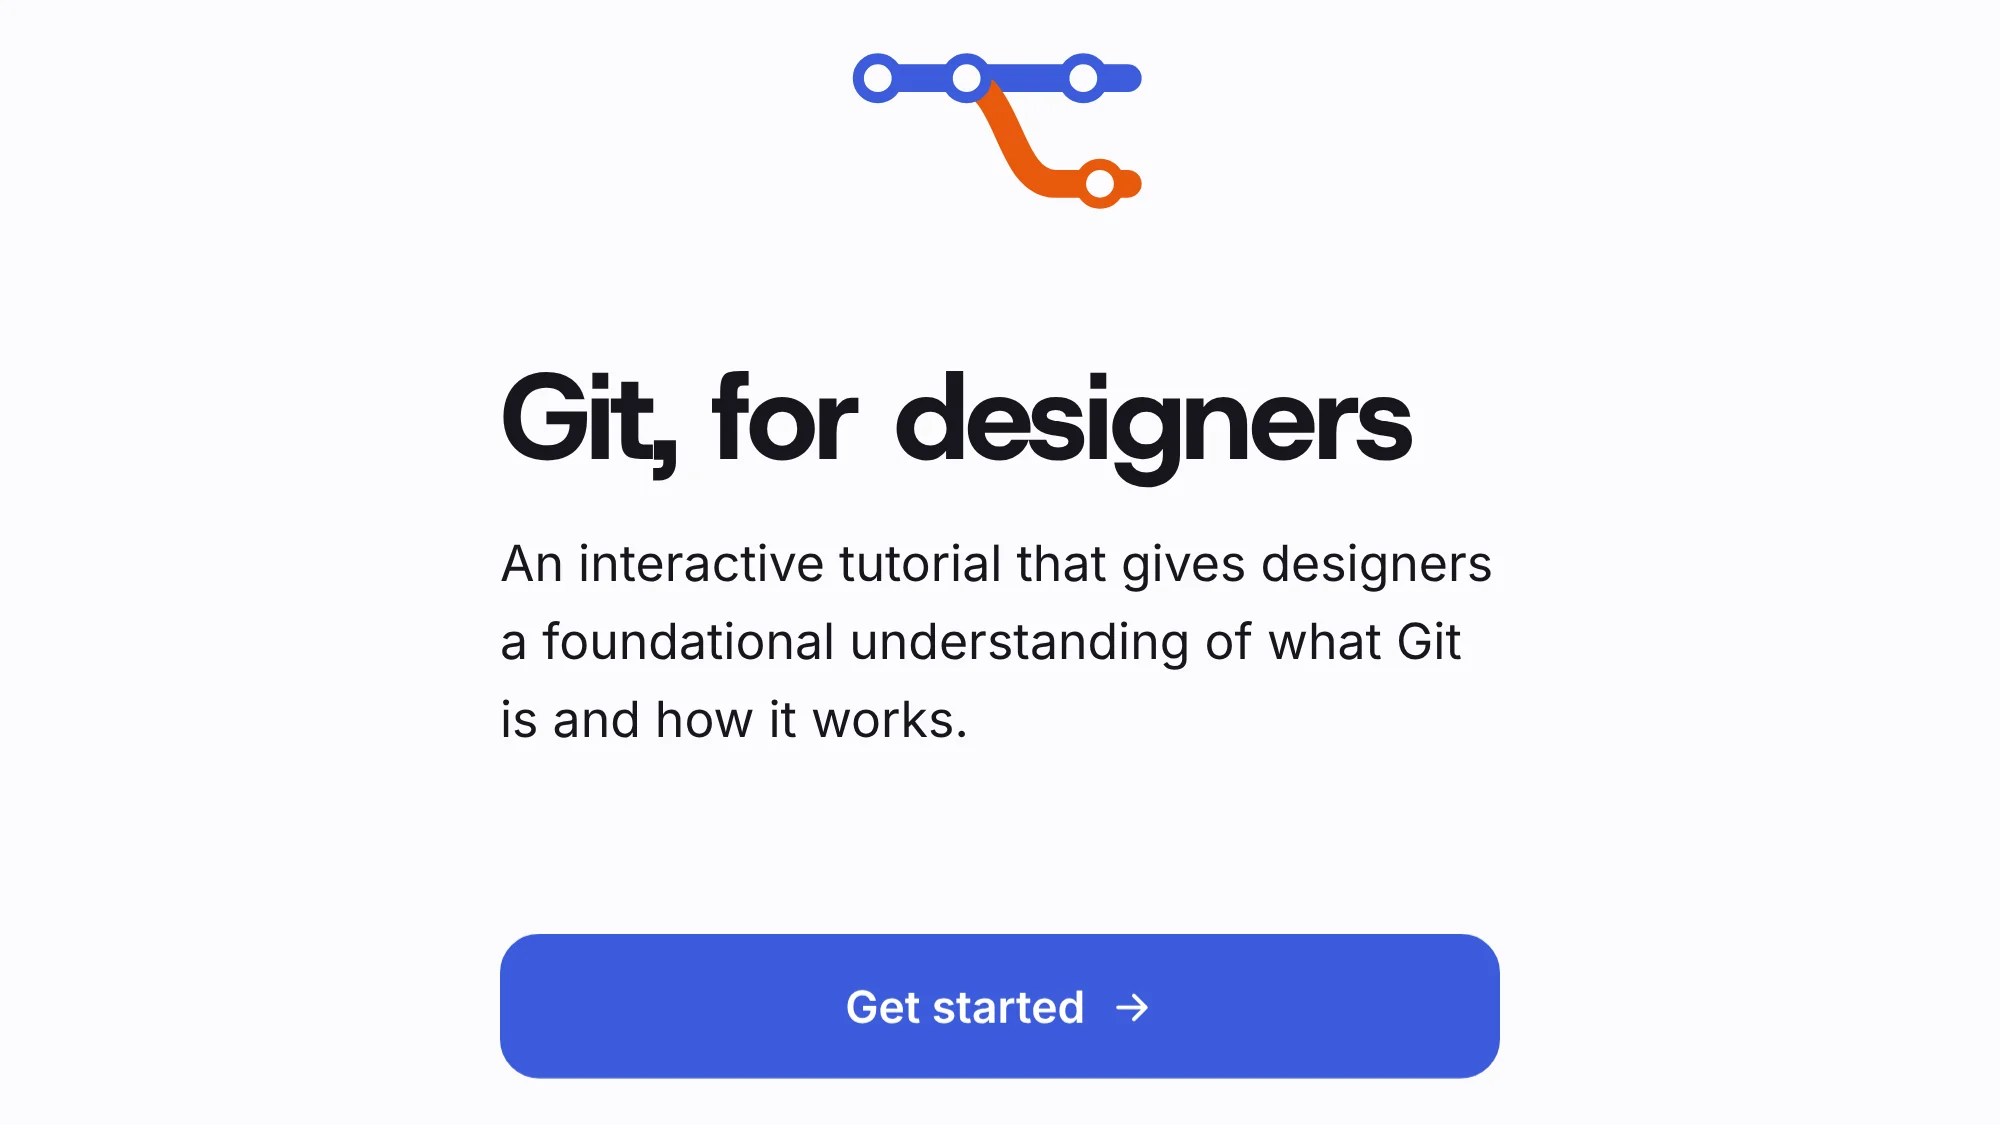
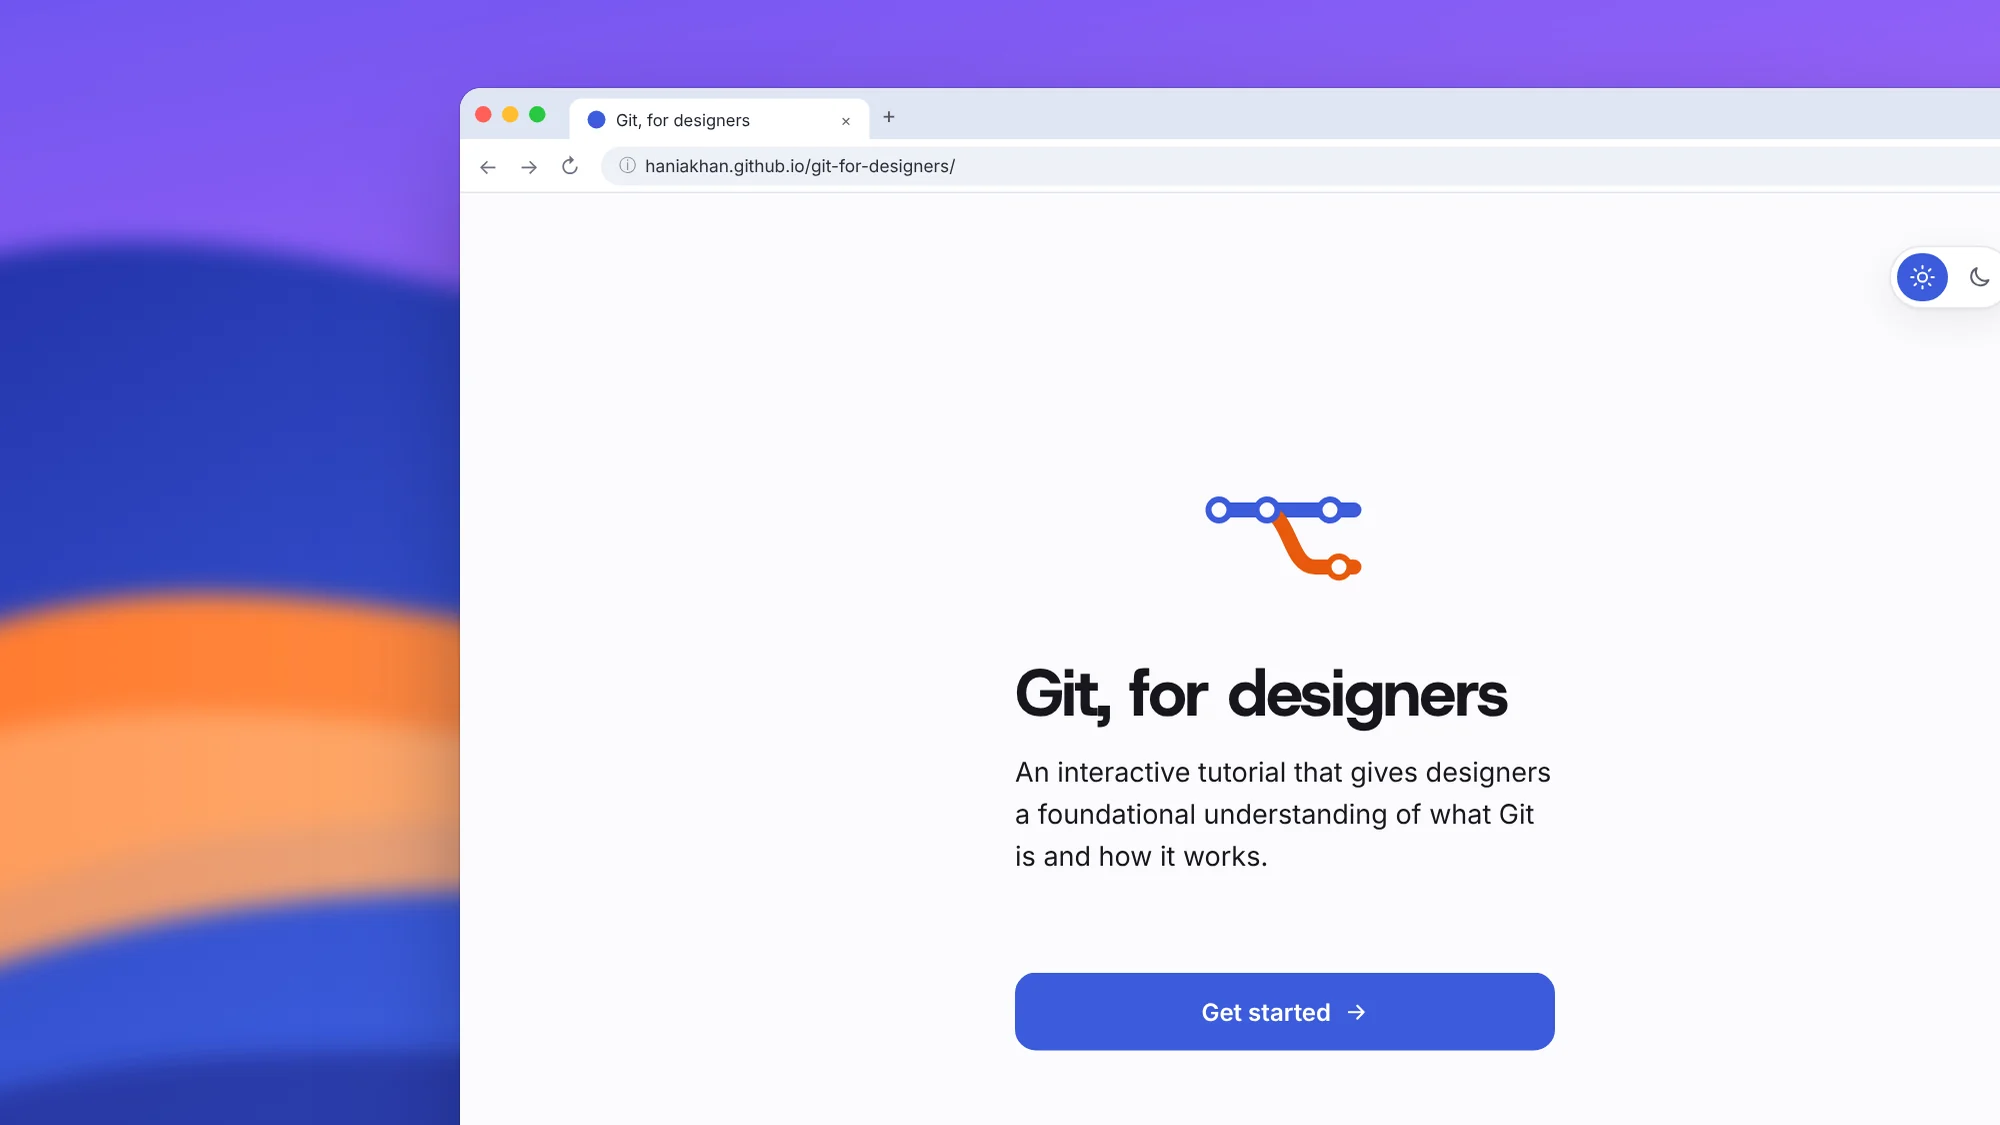
Redo the Git, for designers thumbnail as a browser window on a colourful background
Matches the other tool cards, and leaves the bottom-left corner clear for the name label.

Claude-Session: https://claude.ai/code/session_019JKNJsbBcrXpT4dioKPkZC

diff --git a/index.html b/index.html
@@ -187,7 +187,7 @@
         <figure class="tool" role="listitem" data-reveal>
           <!-- No promo: opens the live tutorial on GitHub Pages in a new tab -->
           <a class="tool__open" href="https://haniakhan.github.io/git-for-designers/" target="_blank" rel="noopener" data-tool-link="git-for-designers" aria-label="Git, for designers, open the tutorial in a new tab">
-            <img class="tool__shot" src="assets/tools/git-for-designers@1200.webp" srcset="assets/tools/git-for-designers@1200.webp 1200w, assets/tools/git-for-designers.webp 2000w" sizes="(max-width: 640px) 60vw, 320px" width="2000" height="1125" loading="lazy" decoding="async" alt="The intro screen of Git, for designers: a branching Git graph above the title and the line “An interactive tutorial that gives designers a foundational understanding of what Git is and how it works.”">
+            <img class="tool__shot" src="assets/tools/git-for-designers@1200.webp" srcset="assets/tools/git-for-designers@1200.webp 1200w, assets/tools/git-for-designers.webp 2000w" sizes="(max-width: 640px) 60vw, 320px" width="2000" height="1125" loading="lazy" decoding="async" alt="Git, for designers open in a browser window: its intro screen, with a branching Git graph above the title and the line “An interactive tutorial that gives designers a foundational understanding of what Git is and how it works.”">
             <span class="tool__label">Git, for designers</span>
           </a>
         </figure>
